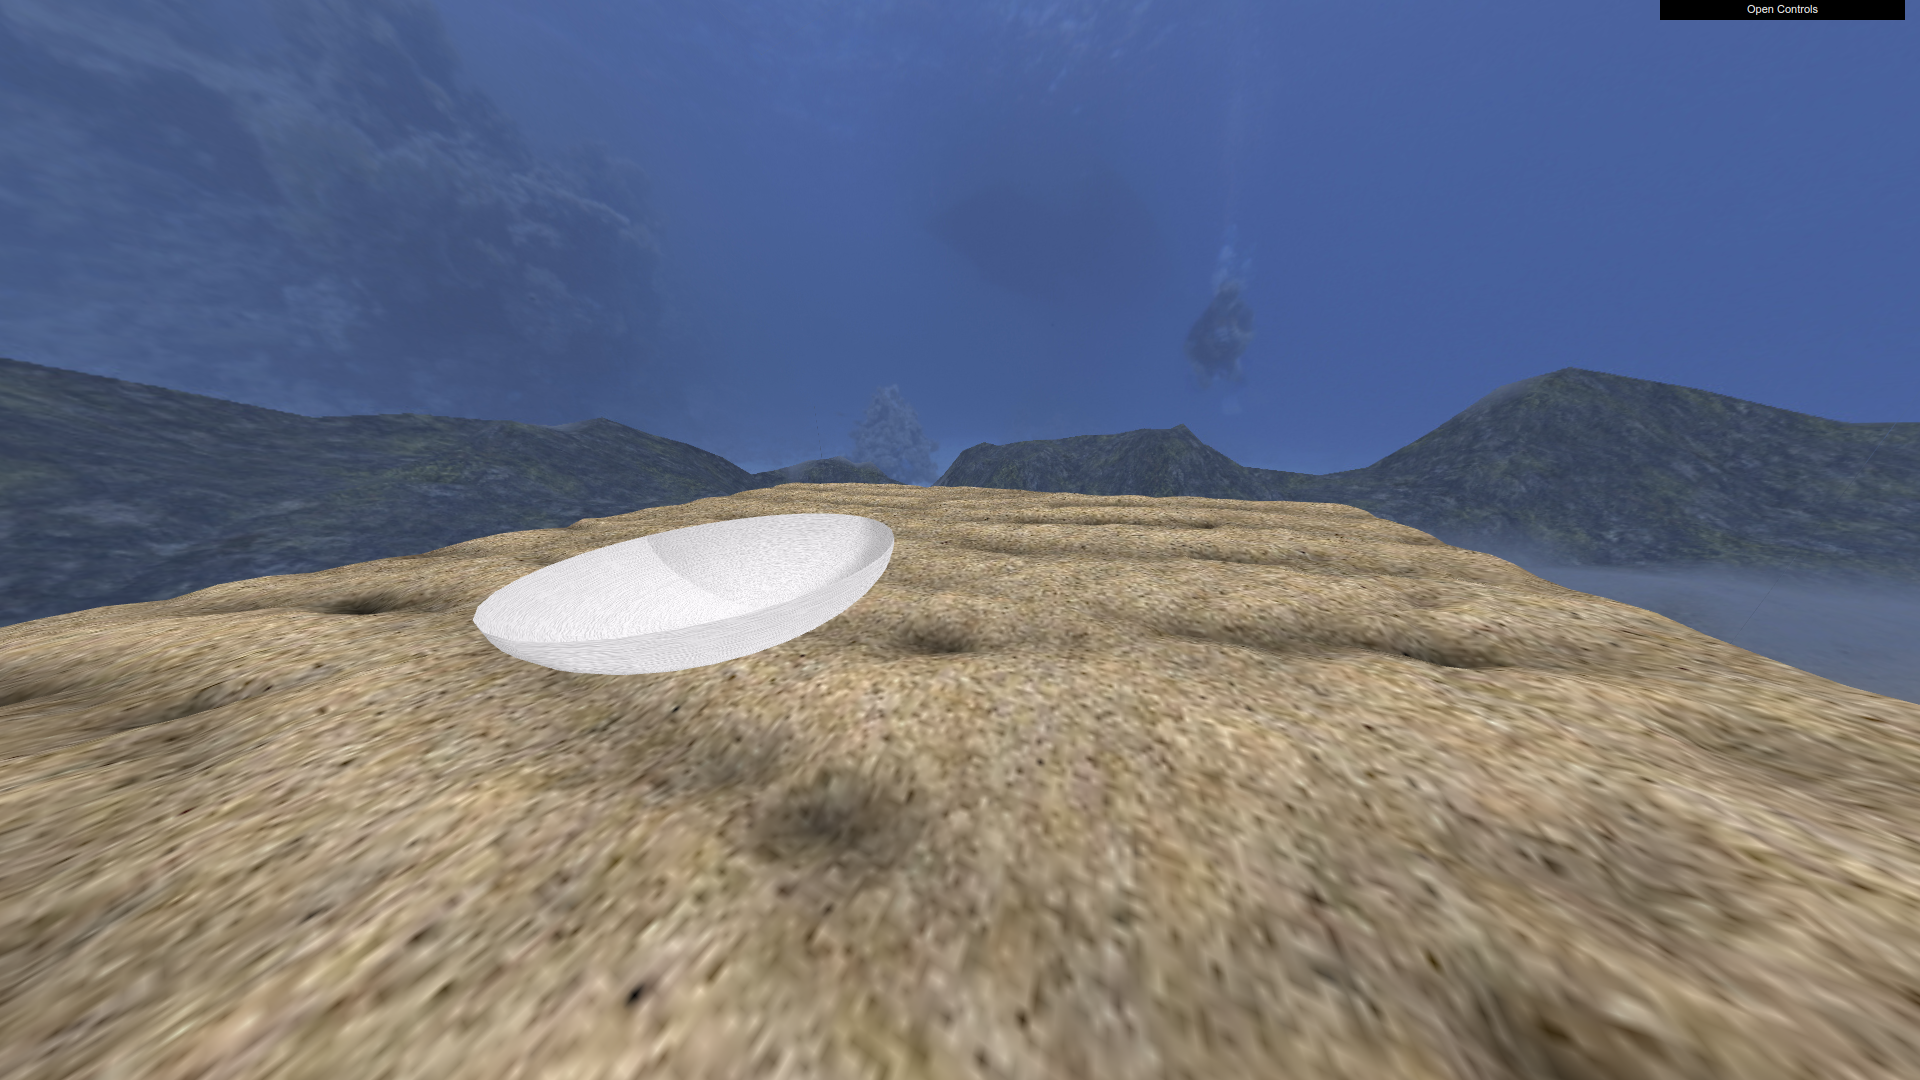
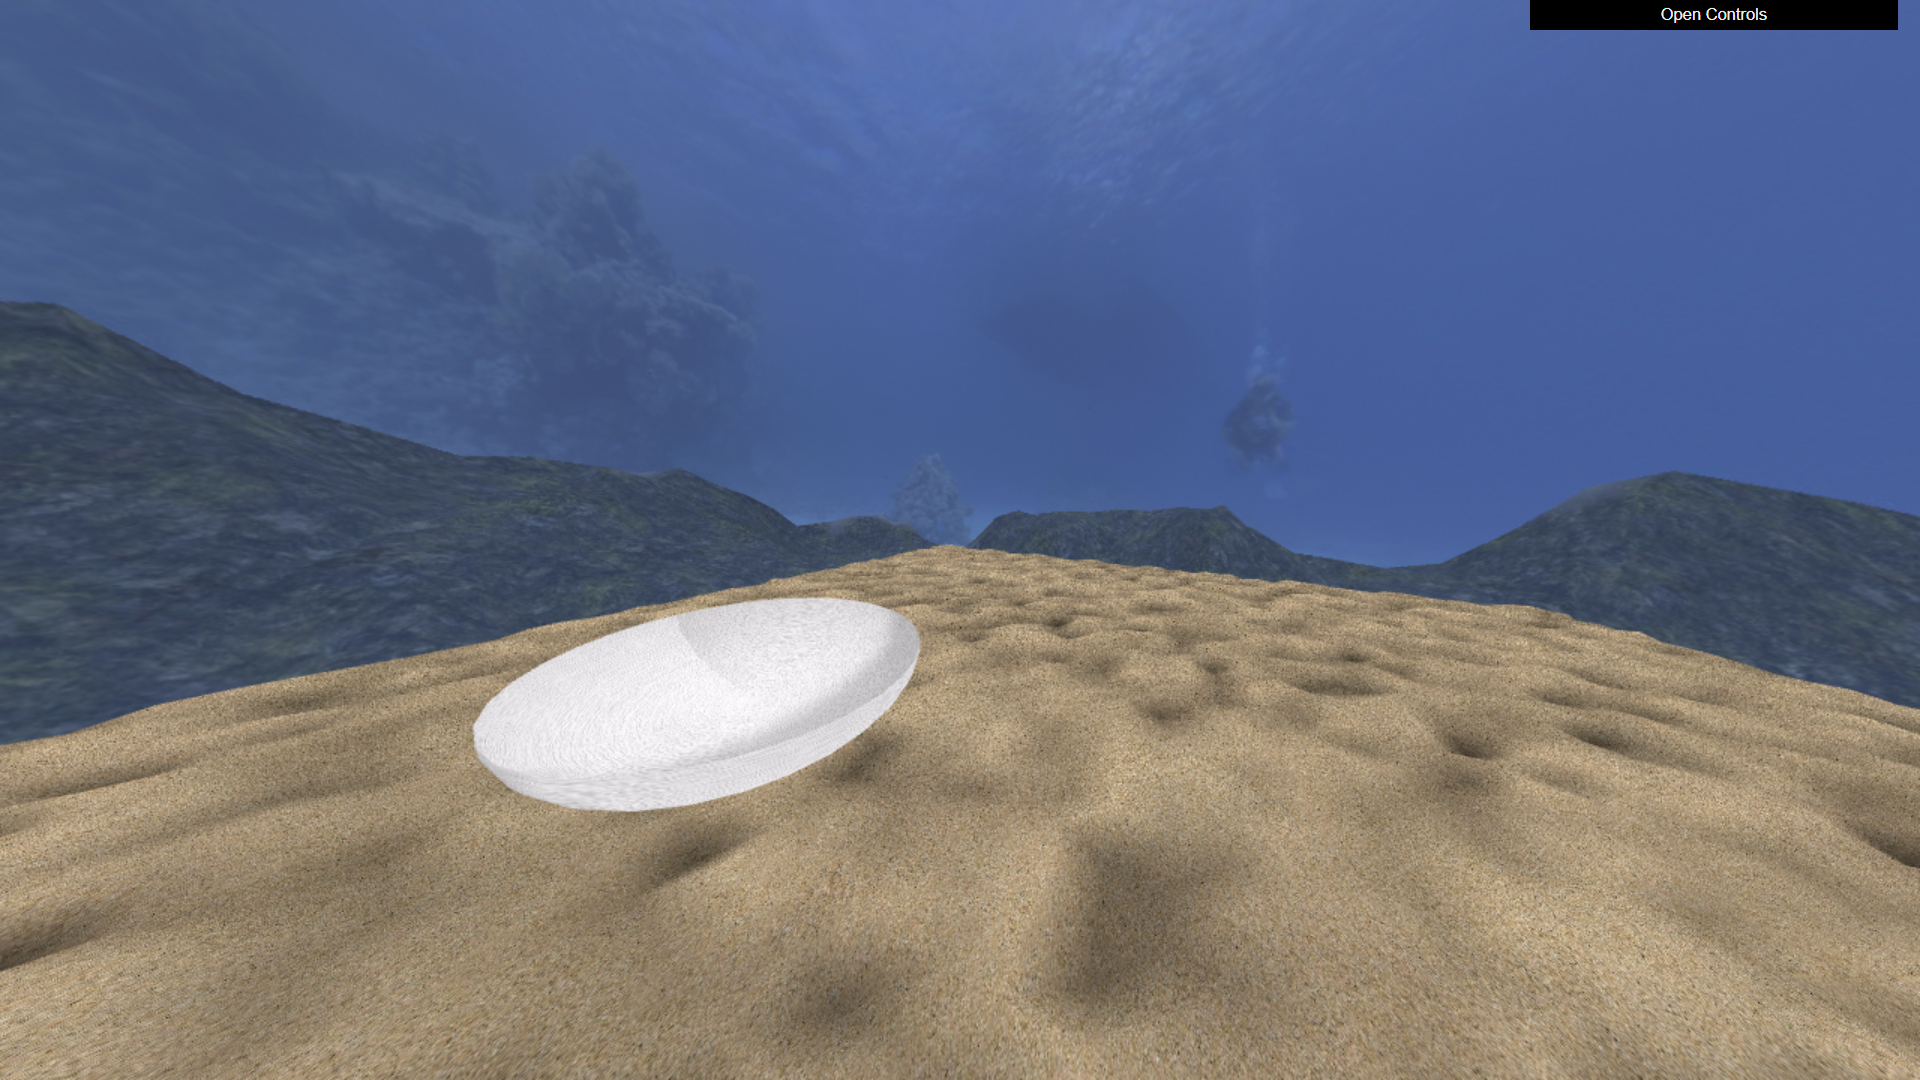
Fix seaFloor, rockset receiving number of rocks and screenshots

diff --git a/project/MyScene.js b/project/MyScene.js
@@ -137,7 +137,9 @@ export class MyScene extends CGFscene {
         this.pilar2 = new MyPilar(this, 22, 0);
         this.pilar3 = new MyPilar(this, 8, -5);
         this.pilar4 = new MyPilar(this, 22, -5);
-        this.rocketSet = new MyRocketSet(this, 23, -23, 23, -23, 10, 5, 10, 5, 90, 0);
+        //this.rocketSet = new MyRocketSet(this, 10, 23, -23, 23, -23, 10, 5, 10, 5, 90, 0);
+        this.rocketSet = new MyRocketSet(this, 5, 7, -7, 7, -7, 10, 5, 10, 5, 90, 0);
+
 
         this.cubeMap = new MyCubeMap(this, 500);
         this.cubeMap.setTextures(this.cubeTextures[this.selectedCubeTexture]);
@@ -156,9 +158,9 @@ export class MyScene extends CGFscene {
         this.displayObject = false;
         this.displayFish = true;
         this.displaySeaFloor = true;
-        this.displayWaterSurface = true;
-        this.displayPilars = true;
-        this.displayRockets = true;
+        this.displayWaterSurface = false;
+        this.displayPilars = false;
+        this.displayRocks = true;
     }
 
     onCylinderComplexityChanged() {
@@ -294,7 +296,7 @@ export class MyScene extends CGFscene {
           this.popMatrix();
         }
 
-        if (this.displayRockets) {
+        if (this.displayRocks) {
           this.pushMatrix();
           this.rocketSet.display();
           this.popMatrix();

diff --git a/project/MyRockSet.js b/project/MyRockSet.js
@@ -2,11 +2,11 @@ import {CGFappearance, CGFobject} from '../lib/CGF.js';
 import { MyRock } from "./MyRock.js";
 
 export class MyRocketSet extends CGFobject {
-  constructor(scene, xMax, xMin, zMax, zMin, sclXMax, sclXMin, sclZMax, sclZMin, rotMax, rotMin){
-    super(scene)
+  constructor(scene, n, xMax, xMin, zMax, zMin, sclXMax, sclXMin, sclZMax, sclZMin, rotMax, rotMin){
+    super(scene);
     this.rockAppearence = new CGFappearance(this.scene);
     this.rockAppearence.setEmission(0.1,0.1,0.1,1);
-    this.n = 10;
+    this.n = n;
     this.initRocks(xMax, xMin, zMax, zMin, sclXMax, sclXMin, sclZMax, sclZMin, rotMax, rotMin);
   }
 
@@ -19,8 +19,8 @@ export class MyRocketSet extends CGFobject {
     this.rocksRotY = [];
     for (let i = 0; i < this.n; i++) {
       this.rocks.push(new MyRock(this.scene, 8, 4, 15));
-      this.rocksX.push(this.generateRandom(xMax, xMin, 1));
-      this.rocksZ.push(this.generateRandom(zMax, zMin, 1));
+      this.rocksX.push(this.generateRandom(xMax, xMin, 10));
+      this.rocksZ.push(this.generateRandom(zMax, zMin, 10));
       this.rocksSclX.push(this.generateRandom(sclXMax, sclXMin, 10));
       this.rocksSclZ.push(this.generateRandom(sclZMax, sclZMin, 10));
       this.rocksRotY.push(this.generateRandom(rotMax, rotMin, 1));

diff --git a/project/MySeaFloor.js b/project/MySeaFloor.js
@@ -10,7 +10,7 @@ export class MySeaFloor extends CGFobject {
     constructor(scene, nDivs, side, maxHeight) {
         super(scene);
         this.initAppearance(maxHeight);
-        this.seaFloor = new MyPlane(this.scene, nDivs);
+        this.seaFloor = new MyPlane(this.scene, nDivs, 0, 8.6, 0, 5.25);
         this.side = side;
     }
     initAppearance(maxHeight) {
